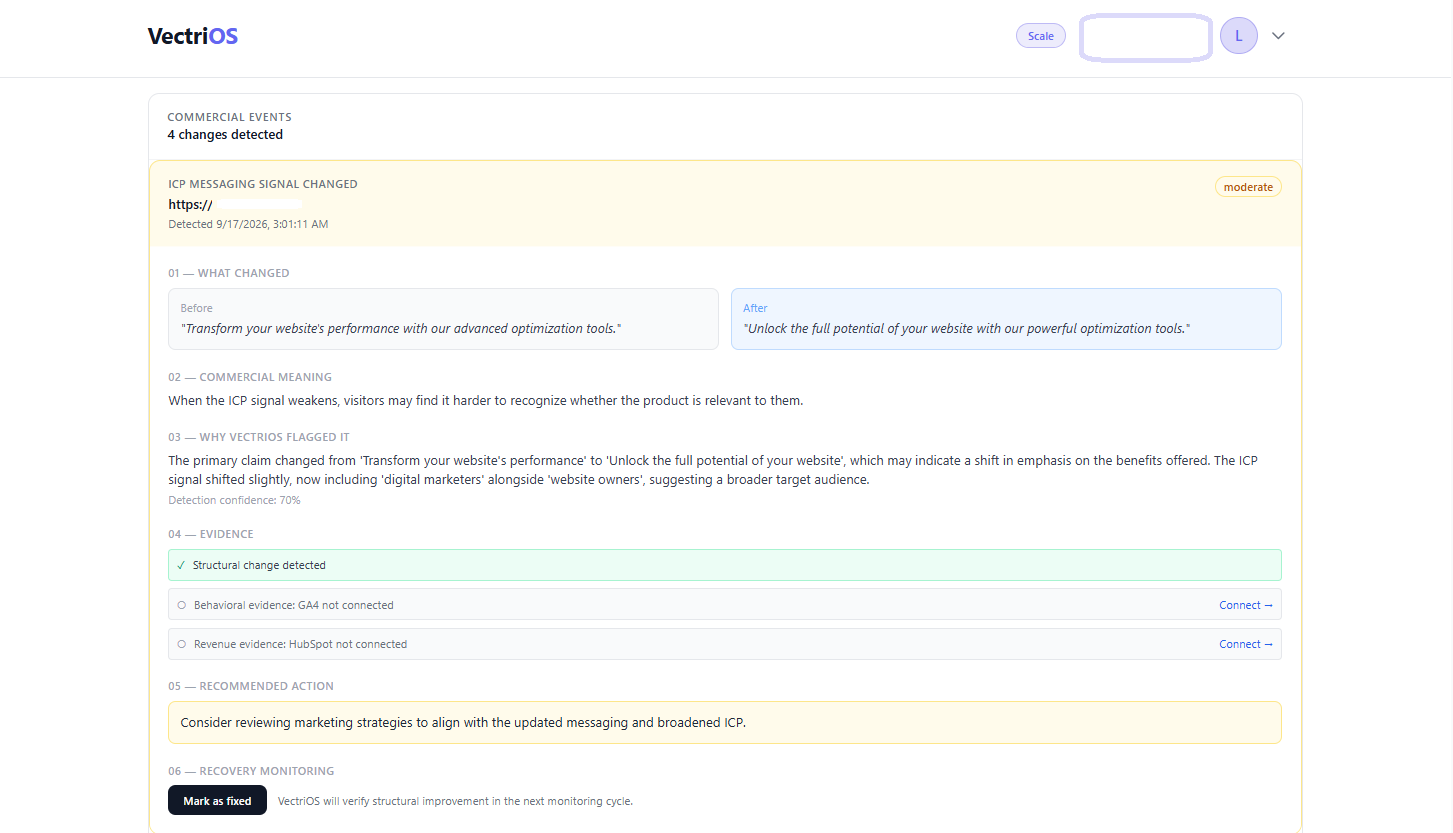
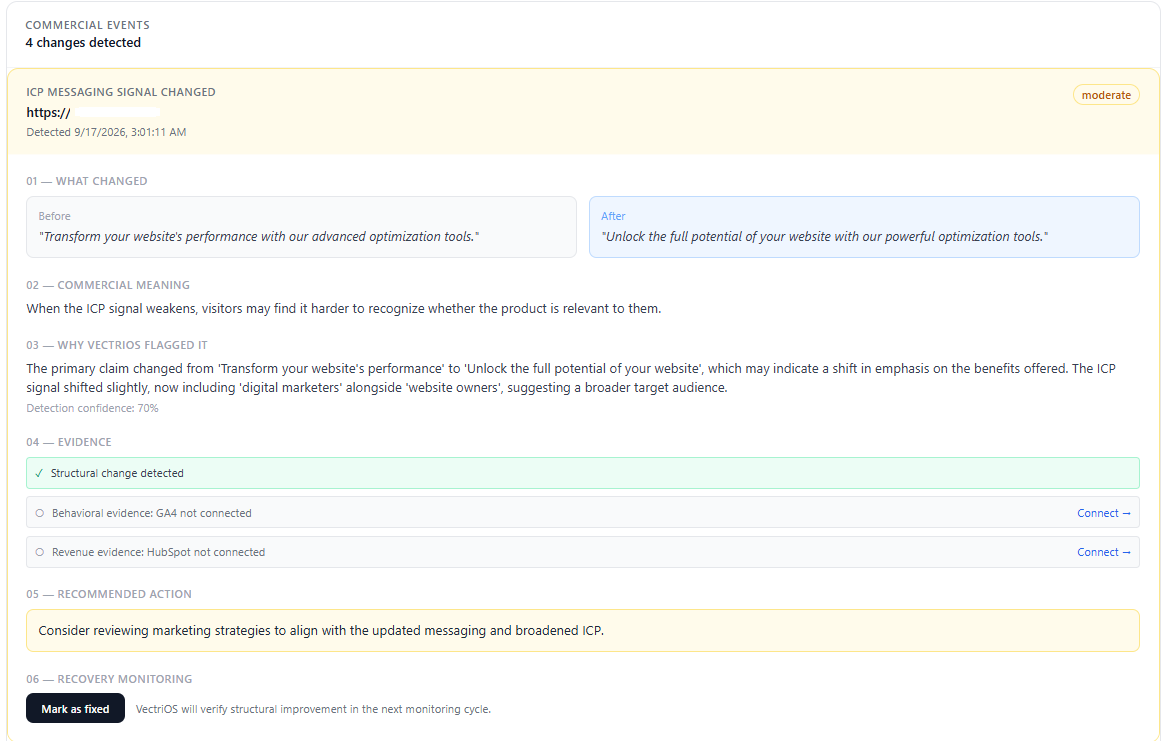
feat: landing - Detect/Interpret/Act/Verify section, real screenshot, all copy fixes

diff --git a/Desktop/UNICORN/frontend/app/page.tsx b/Desktop/UNICORN/frontend/app/page.tsx
@@ -347,7 +347,7 @@ export default function Home() {
             </li>
           </ul>
           <p className="text-lg text-gray-700 leading-relaxed mb-2">
-            Traditional analytics tell you what visitors do. VectriOS monitors the messaging structure that changed.</p>
+            Traditional analytics measure visitor behavior. VectriOS monitors the messaging structure that changed.</p>
           
             
         </div>
@@ -381,28 +381,32 @@ export default function Home() {
         </div>
       </section>
 
-      {/* -- 4. WHAT IT DOES ----------------------------------------------- */}
-      <section className="max-w-6xl mx-auto px-6 py-16 border-t border-slate-200 dark:border-gray-200">
-        <div className="max-w-4xl mx-auto">
-          <h2 className="text-3xl font-bold mb-4 text-slate-900">See where messaging structure is drifting.</h2>
-          <p className="text-lg text-gray-700 mb-8">
-            Products change. Markets shift. Positioning evolves. New pages get added and old messaging remains in place. Over time, these changes can create structural inconsistencies across the buying journey.</p>
 
-          <div className="p-6 bg-gray-50 rounded-lg border border-gray-200">
-            <ul className="space-y-4 text-lg text-gray-700">
-              <li className="flex items-center gap-3">
-                <span className="w-1.5 h-1.5 rounded-full bg-indigo-600 shrink-0" />
-                ICP signals become less explicit
-              </li>
-              <li className="flex items-center gap-3">
-                <span className="w-1.5 h-1.5 rounded-full bg-indigo-600 shrink-0" />
-                Positioning drifts across pages
-              </li>
-              <li className="flex items-center gap-3">
-                <span className="w-1.5 h-1.5 rounded-full bg-indigo-600 shrink-0" />
-                Revenue-stage messaging becomes less consistent
-              </li>
-            </ul>
+      {/* WORKFLOW SECTION */}
+      <section className="max-w-6xl mx-auto px-6 py-16 border-t border-slate-200">
+        <div className="max-w-4xl mx-auto">
+          <h2 className="text-3xl font-bold mb-4 text-slate-900">From detection to action.</h2>
+          <div className="grid md:grid-cols-4 gap-4 mt-8">
+            <div className="p-5 bg-gray-50 rounded-lg border border-gray-200">
+              <p className="text-xs font-semibold uppercase tracking-widest text-indigo-600 mb-2">01</p>
+              <p className="text-lg font-bold text-gray-900 mb-2">Detect</p>
+              <p className="text-sm text-gray-600">Identify meaningful changes across monitored pages.</p>
+            </div>
+            <div className="p-5 bg-gray-50 rounded-lg border border-gray-200">
+              <p className="text-xs font-semibold uppercase tracking-widest text-indigo-600 mb-2">02</p>
+              <p className="text-lg font-bold text-gray-900 mb-2">Interpret</p>
+              <p className="text-sm text-gray-600">Understand which messaging dimension changed and why it matters structurally.</p>
+            </div>
+            <div className="p-5 bg-gray-50 rounded-lg border border-gray-200">
+              <p className="text-xs font-semibold uppercase tracking-widest text-indigo-600 mb-2">03</p>
+              <p className="text-lg font-bold text-gray-900 mb-2">Act</p>
+              <p className="text-sm text-gray-600">Get a prioritized recommendation for what to review.</p>
+            </div>
+            <div className="p-5 bg-gray-50 rounded-lg border border-gray-200">
+              <p className="text-xs font-semibold uppercase tracking-widest text-indigo-600 mb-2">04</p>
+              <p className="text-lg font-bold text-gray-900 mb-2">Verify</p>
+              <p className="text-sm text-gray-600">Track the next assessment to see whether the structural signal improves.</p>
+            </div>
           </div>
         </div>
       </section>
@@ -412,7 +416,7 @@ export default function Home() {
         <div className="max-w-4xl mx-auto">
           <h2 className="text-3xl font-bold mb-4 text-slate-900">Why messaging structure degrades as SaaS products evolve.</h2>
           <p className="text-lg text-gray-700 mb-8">
-            Over time, website changes accumulate into structural inconsistencies that affect how buyers perceive the product.</p>
+            Over time, website changes can accumulate into structural inconsistencies that make the product story harder to interpret consistently across the buying journey.</p>
           <div className="grid md:grid-cols-3 gap-4 mb-8">
             {[
               { metric: "Lower clarity", desc: "ICP and value signals become harder to interpret." },
@@ -444,12 +448,12 @@ export default function Home() {
               <p className="text-xs font-semibold uppercase tracking-widest text-gray-400 mb-2">Behavioral Evidence</p>
               <p className="text-lg font-bold text-gray-700 mb-2">GA4 + GSC</p>
               <p className="text-sm text-gray-500">Add behavioral and search-performance context to structural signals.</p>
-              <p className="text-xs text-gray-400 font-semibold mt-3">Connect GA4</p>
+              <p className="text-xs text-gray-400 font-semibold mt-3">Connect GA4 + GSC</p>
             </div>
             <div className="p-6 bg-gray-50 rounded-lg border border-gray-200">
               <p className="text-xs font-semibold uppercase tracking-widest text-gray-400 mb-2">Revenue Evidence</p>
               <p className="text-lg font-bold text-gray-700 mb-2">HubSpot</p>
-              <p className="text-sm text-gray-500">Add CRM and pipeline context to the monitoring model.</p>
+              <p className="text-sm text-gray-500">Add CRM and pipeline context to structural signals.</p>
               <p className="text-xs text-gray-400 font-semibold mt-3">Connect HubSpot</p>
             </div>
           </div>
@@ -462,7 +466,7 @@ export default function Home() {
         <div className="max-w-4xl mx-auto">
           <h2 className="text-3xl font-bold mb-4 text-slate-900">Continuous Revenue-Stage Monitoring</h2>
           <p className="text-lg text-gray-700 mb-8">
-            Messaging structural drift is a continuous process. As products evolve, markets shift, and competitors reposition, structural integrity requires continuous monitoring — not periodic audits.</p>
+            Messaging drift is continuous. As products evolve, markets shift, and competitors reposition, structural integrity requires continuous monitoring — not periodic audits.</p>
           <div className="p-6 bg-gray-50 rounded-lg border border-gray-200 mb-6">
             <ul className="space-y-4 text-lg text-gray-700">
               <li className="flex items-start gap-3">
